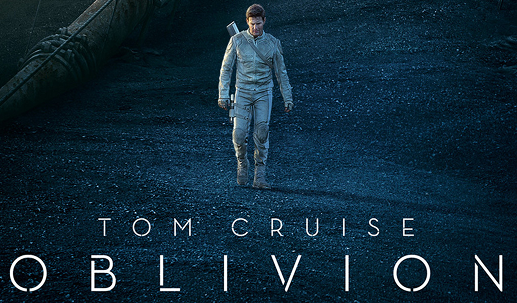
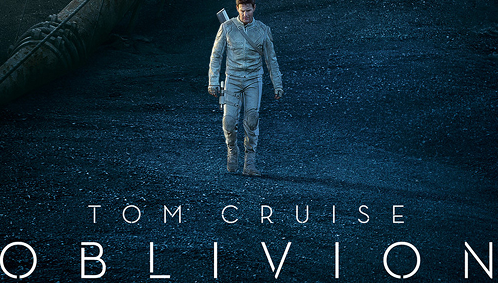
changes

diff --git a/src/components/Home.jsx b/src/components/Home.jsx
@@ -4,13 +4,17 @@ import Navbar from '../Navbar';
 import XManimg from '../Images/XMan.jpg';
 import XMan3img from '../Images/XMan3.webp';
 import Banner from '../Images/Banner.png';
+import Banner3 from '../Images/Banner3.png';
+import Banner2 from '../Images/Banner2.png';
+
 import XMan4img from '../Images/XMan4.jpg';
-import NewlyReleasedImg from '../Images/Newmovieimg.png';
 import MainImg from '../Images/MainImage.png';
 import Jaibhim1 from '../Images/Jaibheem1.png';
 import Jaibhim2 from '../Images/jaibhim2.jpg';
 import Jaibhim3 from '../Images/Jaibhim3.jpeg';
 import TheHeights from '../Images/theheights.webp';
+import { FontAwesomeIcon } from "@fortawesome/react-fontawesome";
+import { faFacebookF, faTwitter } from "@fortawesome/free-brands-svg-icons";
 
 import '../components/Home.css';
 
@@ -42,7 +46,10 @@ const Home = () => {
       <Navbar />
       <div className='banner-section'>
         <div className="banner">
+        <img src={Banner3} className="banner-img" />
+
           <img src={Banner} className="banner-img" />
+          <img src={Banner2} className="banner-img" />
 
         </div>
         <div className="categories">
@@ -88,13 +95,25 @@ const Home = () => {
         </div>
       </section>
 
-      <footer className="copyright">
-        <p>
-          Copyright © Epsilon team. All Rights Reserved, Pesto. All contents and website
-          codes. Copyright of Pesto Epsilon team and unfair use may lead to actions.
-          All rights Reserved.
-        </p>
-      </footer>
+      <footer className="footer">
+  <div className="footer-content">
+    <div className="footer-caption">
+      <p>
+        Copyright @ Epsilon team. All Rights Reserved, Pesto. All contents and website
+        codes are copyright of Pesto Epsilon team abd unfair use may lead to actions.
+        All rights Reserved.
+      </p>
+    </div>
+    <div className="footer-icon">
+      <p>Connect with us</p>
+      <div className="social-icons">
+        <FontAwesomeIcon icon={faFacebookF} className="footer-font-icon" />
+        <FontAwesomeIcon icon={faTwitter} className="footer-font-icon" />
+      </div>
+    </div>
+  </div>
+</footer>
+
     </div>
   );
 };

diff --git a/src/components/Home.css b/src/components/Home.css
@@ -28,9 +28,14 @@ body {
 }
 
 .banner-img {
-  width: 50%;
+  width: 30%;
   max-width: 500px;
   border-radius: 10px;
+}
+.banner-img:hover{
+  transform: scale(1.2);
+  transition: transform 0.3s ease-in-out;
+
 }
 
 .categories {
@@ -107,16 +112,12 @@ body {
   padding: 5px 0;
 }
 
-.movie-card p,
-.movie-card span {
-  color: black;
-  font-size: 16px;
-  text-align: left;
-  margin: 5px 0;
-}
 
-.movie-card span {
-  margin-top: -3px;
+.movie-info {
+  display: flex;
+  align-items: center;  
+  gap: 20px;           
+  color: black;
 }
 
 .movie-card img {
@@ -153,13 +154,48 @@ body {
   display: block;
 }
 
-.copyright p {
-  font-size: 20px;
-  color: black;
-  text-align: left;
-  margin-top: 20px;
-  padding-bottom: 10px;
+.footer {
+  border-top: 1px solid #ddd;
+  padding: 20px 30px;
 }
+
+.footer-content {
+  display: flex;
+  justify-content: space-between;
+  align-items: center;
+  flex-wrap: wrap;
+}
+
+.footer-caption p {
+  margin: 0;
+  font-size: 18px;
+  color: #333;
+  max-width: 600px;
+  text-align: start;
+}
+
+.footer-icon p {
+  margin: 0 0 8px 0;
+  font-size: 14px;
+  color: #333;
+  text-align: start;
+}
+
+.social-icons {
+  display: flex;
+  gap: 12px;
+}
+
+.footer-font-icon {
+  font-size: 16px;
+  color: #333;
+  transition: color 0.3s ease;
+}
+
+.footer-font-icon:hover {
+  color: #1877f2; 
+}
+
 
 @media screen and (max-width: 480px) {
   .banner-section {
@@ -229,8 +265,24 @@ body {
     width: 100%;
   }
 
-  .copyright p {
+  .footer-content {
+    flex-direction: column;
+    align-items: flex-start;
+  }
+
+  .footer-caption p {
+    font-size: 16px;
+    max-width: 100%;
+    margin-bottom: 15px;
+  }
+
+  .footer-icon p {
     font-size: 14px;
-    padding: 10px;
+    margin-bottom: 8px;
+  }
+
+  .social-icons {
+    gap: 16px;
   }
 }
+

diff --git a/src/Navbar.css b/src/Navbar.css
@@ -12,7 +12,7 @@
 
   font-weight: bolder;
 
-  margin-top:  10px;
+  margin-top:  0px;
 
   margin-left: 0;
 
@@ -20,7 +20,7 @@
 
 .logo {
 
-  font-size: 24px;
+  font-size: 35px;
 
   font-weight: bolder;
 
@@ -41,7 +41,7 @@
   width: 400px;
   margin-top:  10px;
 
-  margin-left: 300px;
+  margin-left: 10px;
 
 }
 
@@ -103,14 +103,15 @@
 
   .search-container {
     width: 80%;
-    /* margin: 10px 0; */
-    margin-left: 0;
+    margin-left: 10px;
   }
 
   .search-bar {
     padding: 8px 35px;
     font-size: 14px;
     height: auto;
+    margin-left: 10px;
+
   }
 
   .search-icon {

diff --git a/src/components/MovieDetails.css b/src/components/MovieDetails.css
@@ -1,7 +1,6 @@
 @import url('https://fonts.googleapis.com/css2?family=Poppins:wght@400;600&display=swap');
 
 body {
-  /* font-family: 'Poppins/', Arial, sans-serif; */
   color: white;
   margin: 0;
   padding: 0;
@@ -180,7 +179,14 @@ body {
   .movie-details-container {
     padding: 10px;
   }
-
+  .breadcrumb{
+    margin-right: 900px;
+    width: 300px;
+}
+.title{
+  align-items: center;
+  width: 300px;
+}
   .content {
     flex-direction: column-reverse;
     align-items: center;
